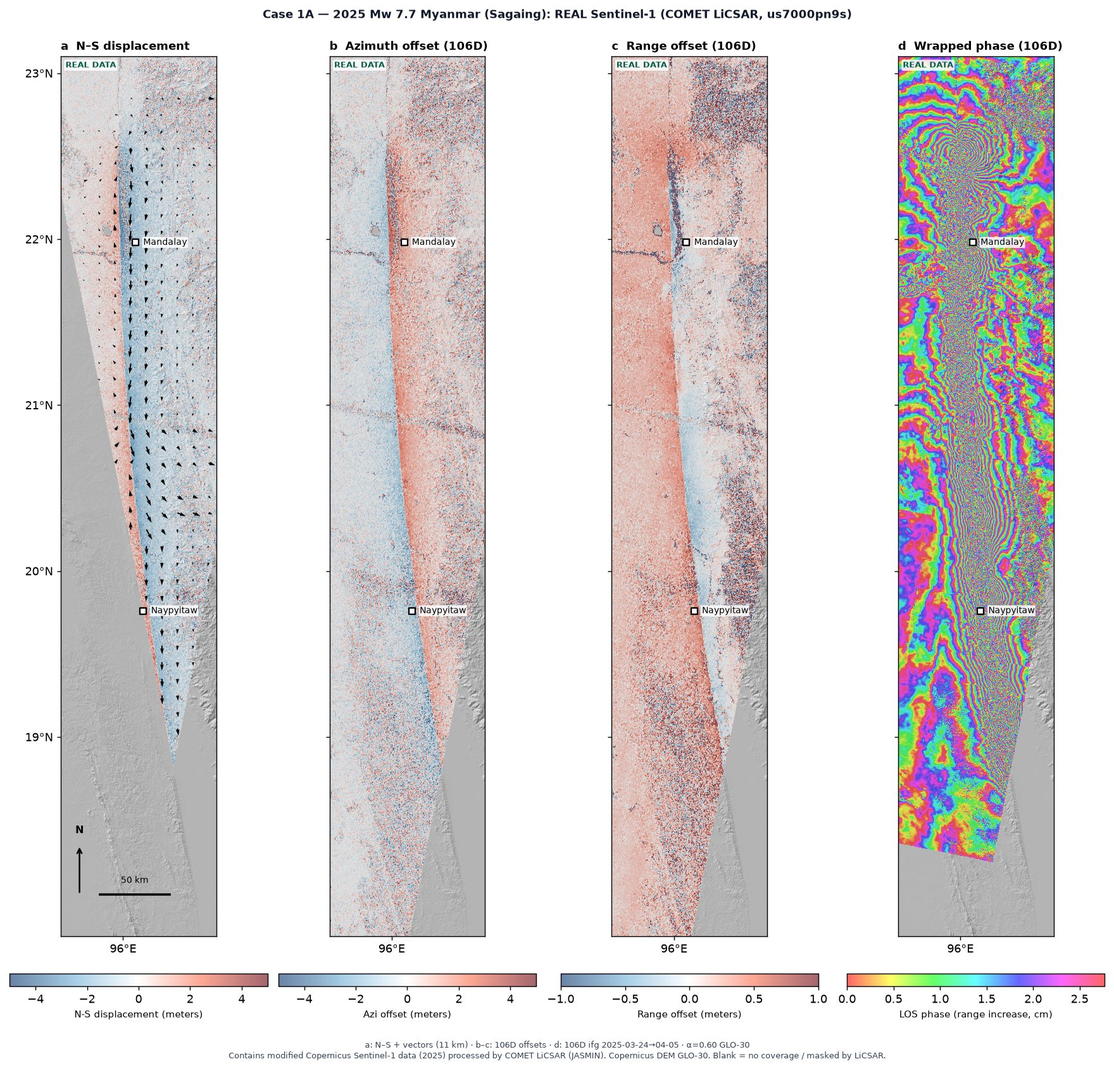
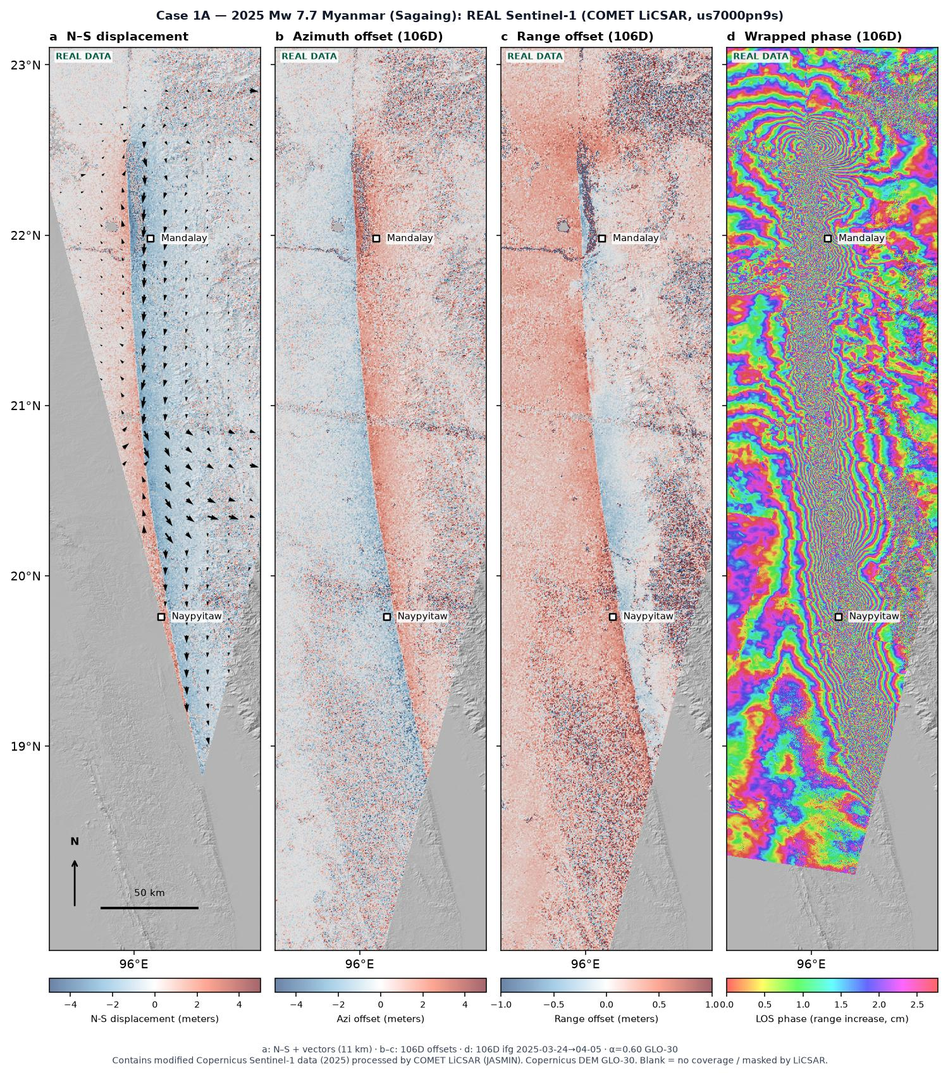
fix: match Case 1A colorbar width to each map panel

diff --git a/scripts/regenerate_readme_science_figures.py b/scripts/regenerate_readme_science_figures.py
@@ -443,25 +443,22 @@ def regenerate_case1a() -> Path:
         N=256,
     )
 
-    fig, axes = plt.subplots(1, 4, figsize=(13.5, 12.8), sharey=True, layout="constrained")
-    fig.set_constrained_layout_pads(w_pad=0.02, h_pad=0.06, hspace=0.06, wspace=0.04)
+    fig, axes = plt.subplots(1, 4, figsize=(10.8, 12.2), sharey=True)
+    fig.subplots_adjust(left=0.055, right=0.995, top=0.945, bottom=0.10, wspace=0.07)
     fig.suptitle(
         "Case 1A — 2025 Mw 7.7 Myanmar (Sagaing): REAL Sentinel-1 (COMET LiCSAR, us7000pn9s)",
         fontsize=10,
         fontweight="bold",
         color="#0f172a",
+        y=0.98,
     )
-    try:
-        fig.get_layout_engine().set(rect=(0, 0.02, 1, 0.97))
-    except Exception:
-        pass
     panels = [
         (u_north_real, bwr_sar, -5, 5, "N-S displacement (meters)", "a  N–S displacement"),
         (azi_106D, bwr_sar, -5, 5, "Azi offset (meters)", "b  Azimuth offset (106D)"),
         (rng_106D, bwr_sar, -1, 1, "Range offset (meters)", "c  Range offset (106D)"),
         (phase_cm, sar_rainbow, 0, CM_PER_CYCLE, "LOS phase (range increase, cm)", "d  Wrapped phase (106D)"),
     ]
-    geo_aspect = 1.0 / np.cos(np.deg2rad(0.5 * (mm_lat_min + mm_lat_max)))
+    panel_mappables = []
     for ax, (arr, cmap, vmin, vmax, clabel, title) in zip(axes, panels):
         ax.imshow(hs_mm, cmap="gray", extent=extent_mm, origin="upper", vmin=0.0, vmax=1.0, aspect="auto")
         im = ax.imshow(
@@ -500,12 +497,20 @@ def regenerate_case1a() -> Path:
             )
         ax.set_xlim(mm_lon_min, mm_lon_max)
         ax.set_ylim(mm_lat_min, mm_lat_max)
-        ax.set_aspect(geo_aspect)
         ax.set_xticks([96.0])
         ax.set_xticklabels(["96°E"])
         ax.set_yticks(np.arange(19, 24))
-        ax.set_yticklabels([f"{v}°N" for v in range(19, 24)])
-        fig.colorbar(im, ax=ax, orientation="horizontal", fraction=0.035, pad=0.02).set_label(clabel, fontsize=8.5)
+        if ax is not axes[0]:
+            ax.tick_params(labelleft=False)
+        else:
+            ax.set_yticklabels([f"{v}°N" for v in range(19, 24)])
+        panel_mappables.append((im, ax, clabel))
+    fig.canvas.draw()
+    for im, ax, clabel in panel_mappables:
+        plotting.matching_width_colorbar(
+            fig, im, ax, orientation="horizontal", thickness=0.013, pad=0.026,
+            label=clabel, label_fontsize=8.0, use_position=True,
+        )
     draw_vectors(axes[0], X_mm, Y_mm, E_mm, N_mm, scale=28.0, ref=2.0, min_mag=0.3, width=0.008)
     # north arrow / scale on panel a
     axes[0].annotate(
@@ -519,7 +524,7 @@ def regenerate_case1a() -> Path:
     axes[0].text(mm_lon_min + 0.25 + 25 / 111.0, mm_lat_min + 0.32, "50 km", ha="center", fontsize=8)
     fig.text(
         0.5,
-        0.005,
+        0.012,
         "a: N–S + vectors (11 km) · b–c: 106D offsets · d: 106D ifg 2025-03-24→04-05 · α=0.60 GLO-30\n"
         "Contains modified Copernicus Sentinel-1 data (2025) processed by COMET LiCSAR (JASMIN). "
         "Copernicus DEM GLO-30. Blank = no coverage / masked by LiCSAR.",
@@ -529,7 +534,7 @@ def regenerate_case1a() -> Path:
         color="#334155",
     )
     out = IMG / "case1a_myanmar_earthquake.jpg"
-    plotting.save_figure(fig, out, max_width_px=1400, quality=82)
+    plotting.save_figure(fig, out, max_width_px=1500, quality=75)
     return out
 
 

diff --git a/pygeomapper/plotting.py b/pygeomapper/plotting.py
@@ -60,6 +60,50 @@ def colorbar_mappable(
     return sm
 
 
+def matching_width_colorbar(
+    fig: Any,
+    mappable: Any,
+    ax: Any,
+    *,
+    orientation: str = "horizontal",
+    thickness: float = 0.014,
+    pad: float = 0.028,
+    label: str | None = None,
+    label_fontsize: float = 8.5,
+    tick_fontsize: float = 7.5,
+    use_position: bool = True,
+) -> Any:
+    """
+    Colorbar whose length matches `ax` exactly (no wider than the parent map).
+
+    When `use_position=True` (default), places a figure-level axes at `ax.get_position()`
+    so the bar width equals the map axes width in figure coordinates. Call after the map
+    layout is finalized (`fig.canvas.draw()` once, or after `subplots_adjust`). This avoids
+    constrained-layout allocating oversized horizontal colorbar slots that push panels apart.
+
+    Prefer this for multi-panel boards with horizontal colorbars under tall map axes; leave
+    `fig.colorbar(ax=...)` for simple single-panel cases.
+    """
+    if use_position:
+        # Prefer a prior fig.canvas.draw() by the caller; draw once here if needed.
+        if getattr(getattr(fig, "canvas", None), "renderer", None) is None:
+            fig.canvas.draw()
+        pos = ax.get_position()
+        if orientation == "horizontal":
+            cax = fig.add_axes([pos.x0, max(pos.y0 - pad - thickness, 0.001), pos.width, thickness])
+        else:
+            cax = fig.add_axes([min(pos.x1 + pad, 0.99 - thickness), pos.y0, thickness, pos.height])
+    elif orientation == "horizontal":
+        cax = ax.inset_axes((0.0, -pad - thickness, 1.0, thickness))
+    else:
+        cax = ax.inset_axes((1.0 + pad, 0.0, thickness, 1.0))
+    cb = fig.colorbar(mappable, cax=cax, orientation=orientation)
+    if label:
+        cb.set_label(label, fontsize=label_fontsize)
+    cb.ax.tick_params(labelsize=tick_fontsize)
+    return cb
+
+
 def use_plain_axes(
     ax: Any,
     unit: str | None = None,
